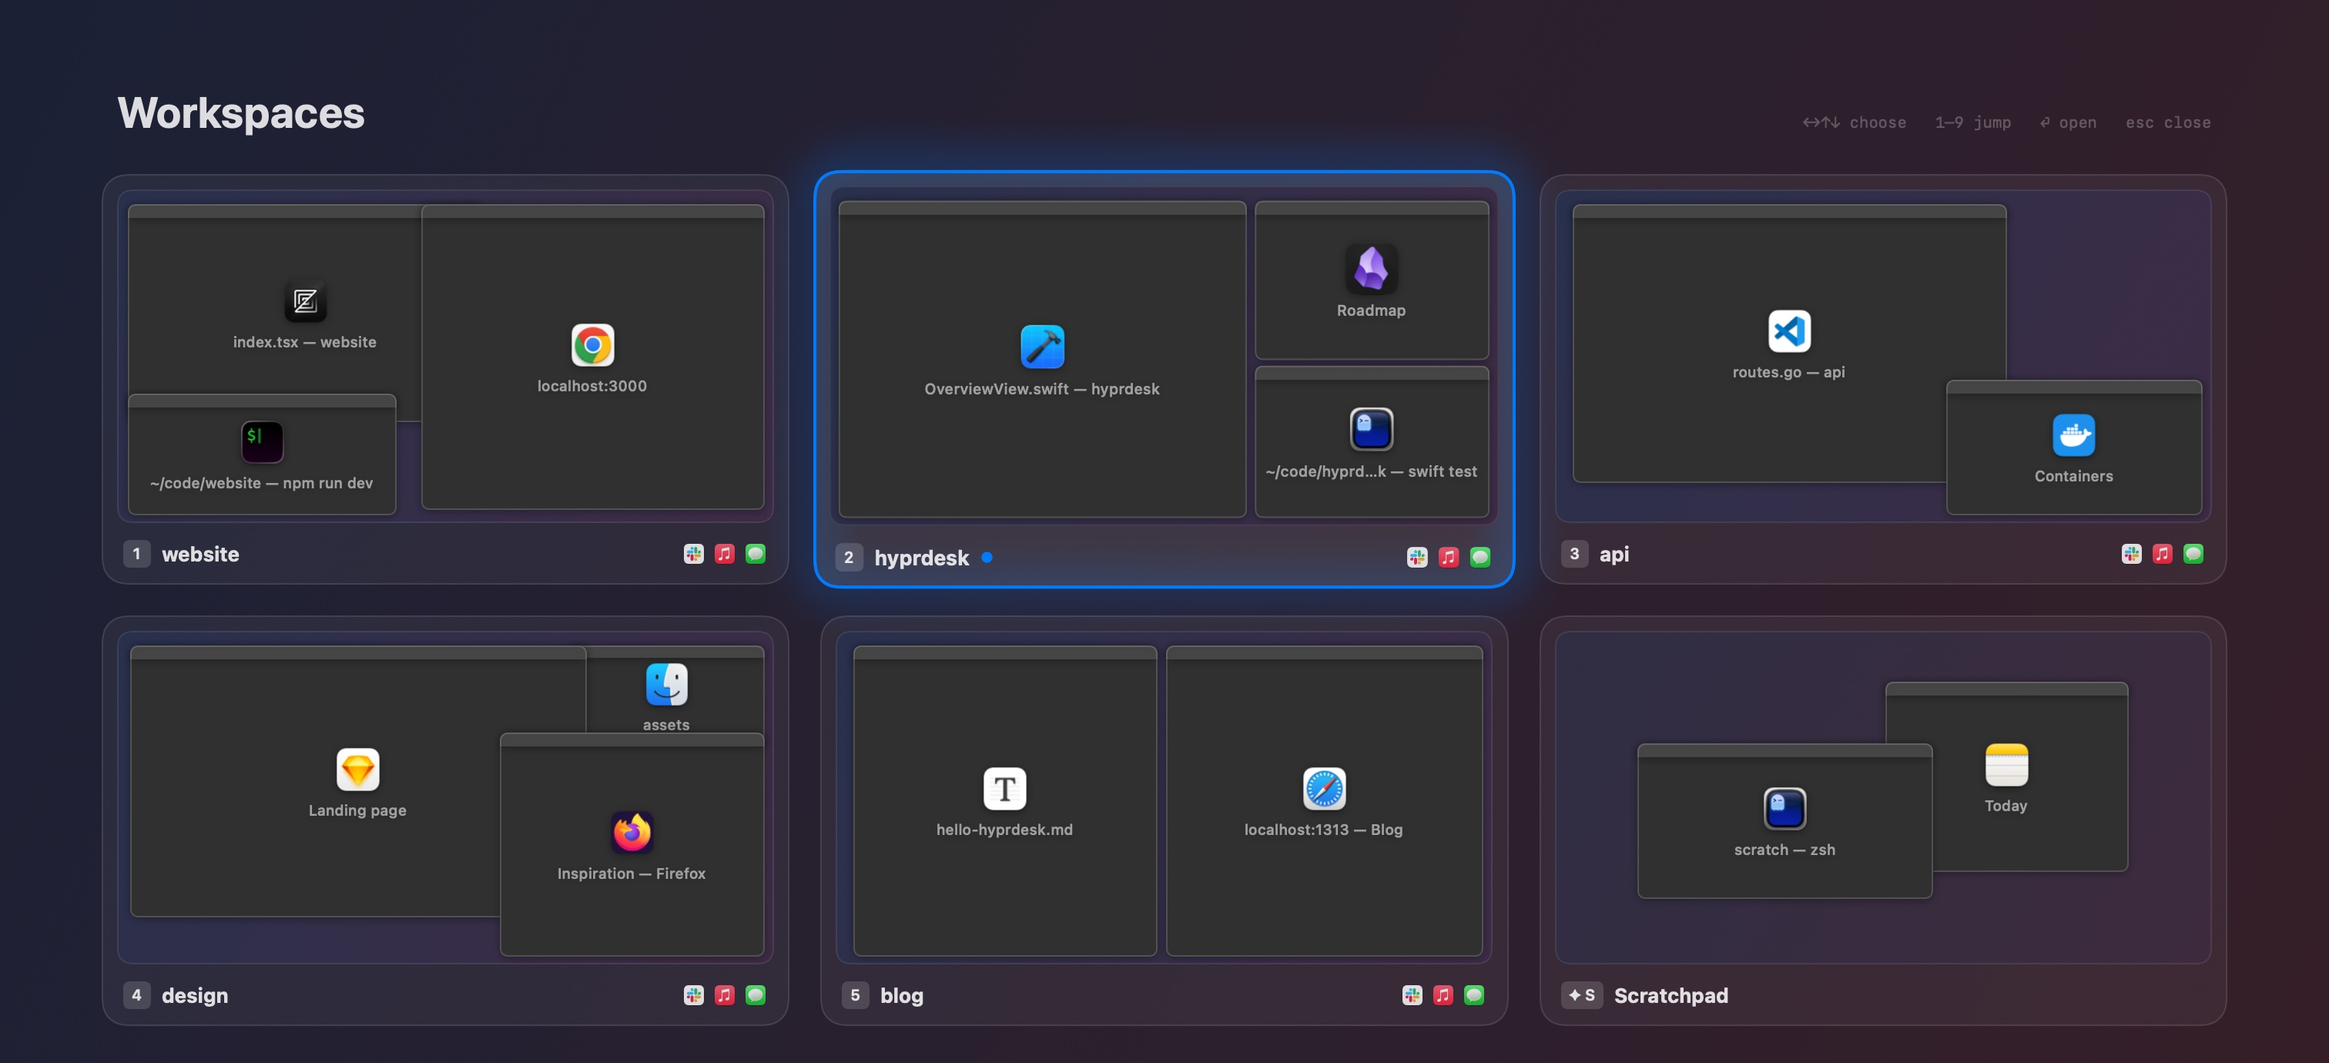
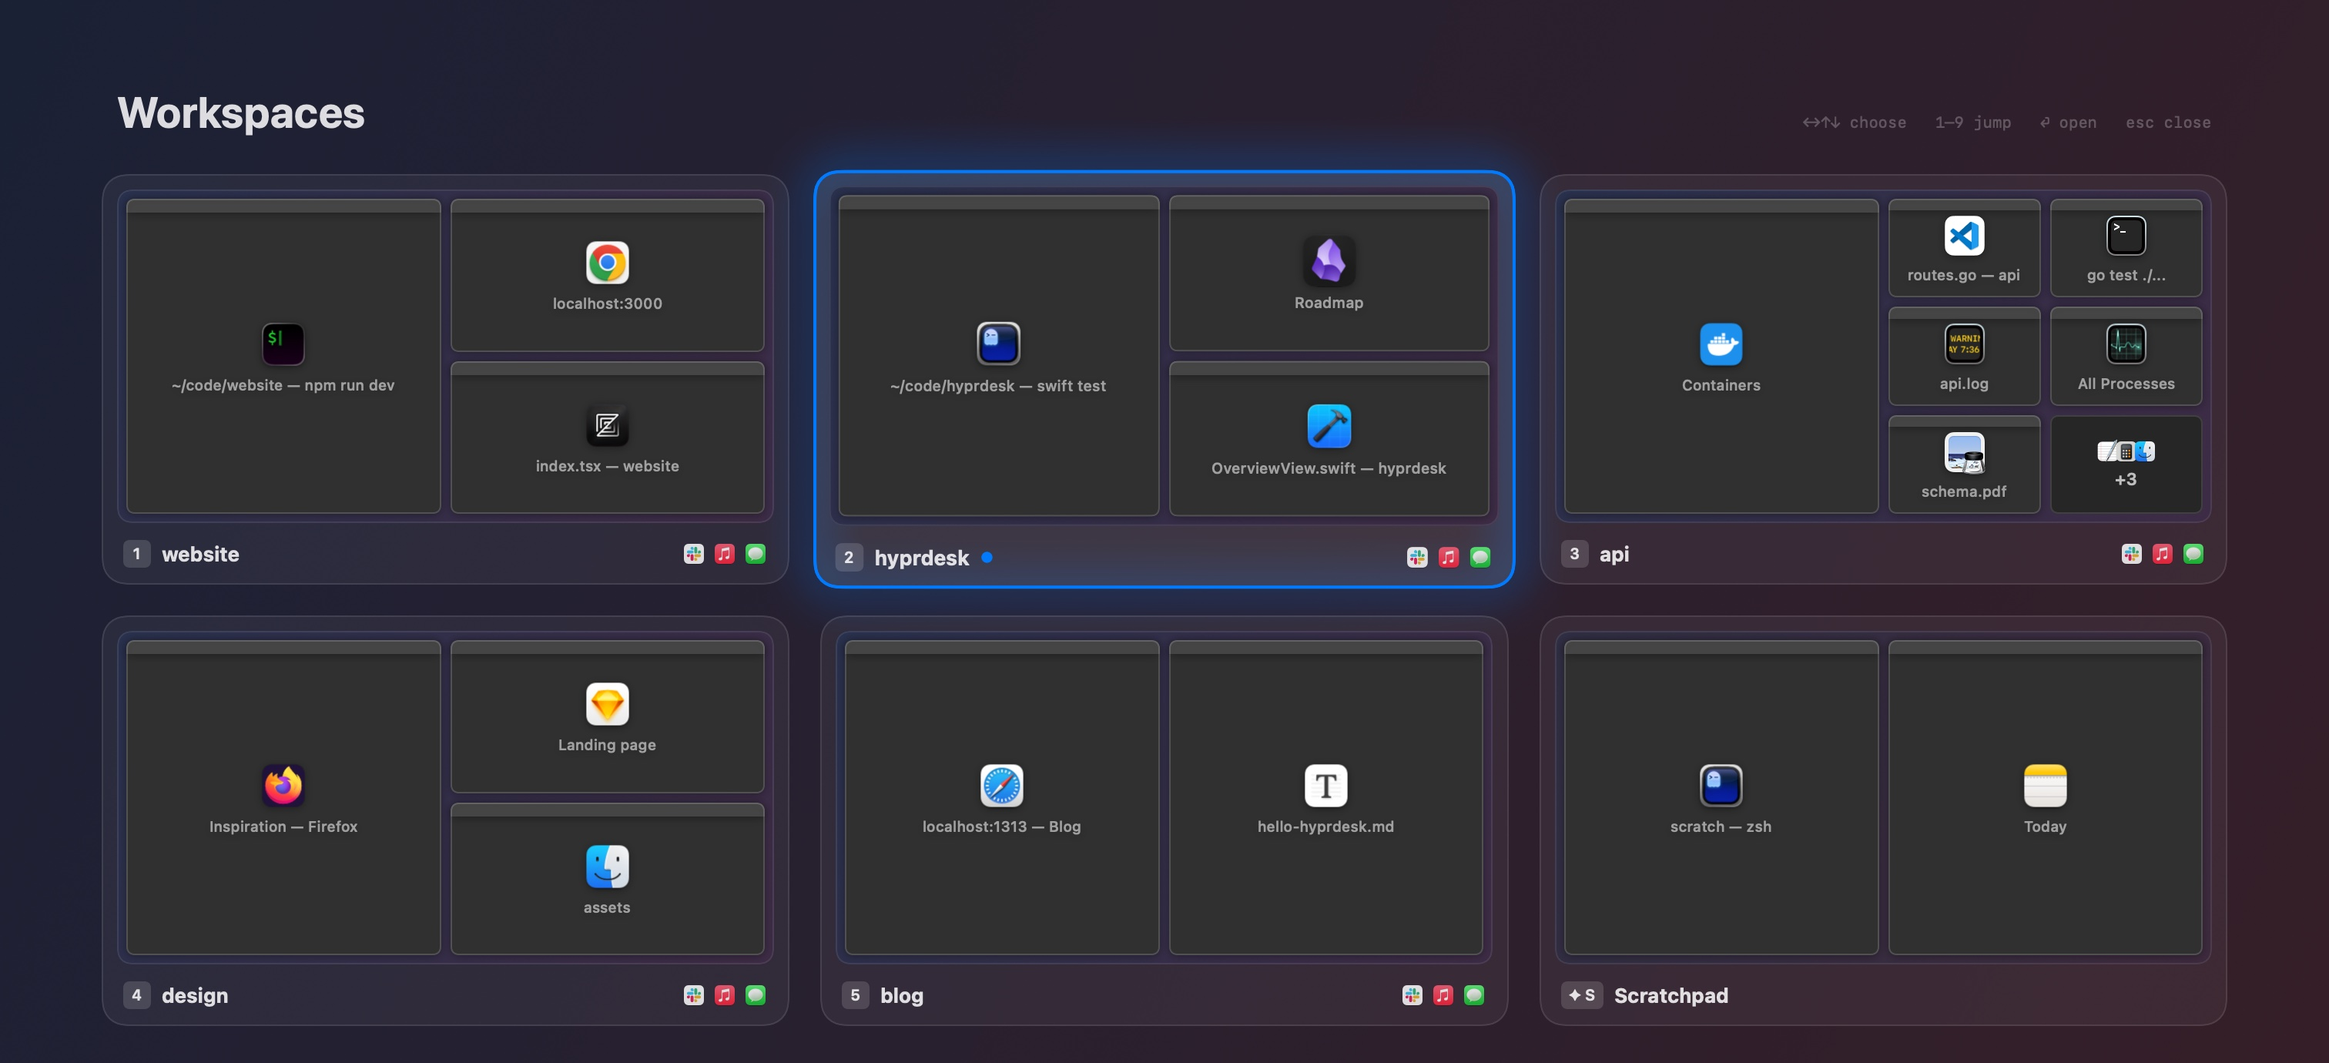
Overview: tile each card's windows, the frontmost largest (#3)
Cards drew windows where they really sit, back to front: with maximized or overlapping windows,
only the frontmost showed. Now every card tiles its windows the way a tiling window manager's
main-and-stack layout does: the frontmost takes the left half, the others share the right half,
stacked, in two columns past three. Past seven windows the last tile is "+N" with their apps'
icons. Every card fills its miniature the same way.

Real frames no longer matter to the overview, so it stops reading them when it opens
(OverviewModel's frames, WorkspaceEngine.homeFrames). The sample data gets a busy workspace;
README picture regenerated.

diff --git a/Sources/Overview/SpaceCard.swift b/Sources/Overview/SpaceCard.swift
@@ -62,18 +62,51 @@ public struct SpaceCard: Identifiable, Equatable {
     }
 }
 
-/// Where a window sits on a card's miniature desktop: each window is placed relative to the
-/// screen holding it (with several screens, they share the one miniature).
+/// Where a card's windows go on its miniature desktop: a main-and-stack layout, as tiling
+/// window managers have it. The frontmost window takes the left half; the others share the
+/// right half, one above another, in two columns once there are more than three of them. Real
+/// sizes and positions don't count: on macOS windows mostly overlap, and drawn where they
+/// really sit, the frontmost hides the rest. Every card fills its miniature the same way.
 public enum MiniDesktop {
-    /// `frame` (Accessibility coordinates) on a miniature `size` of its screen; clipped to the
-    /// miniature, nil when nothing of it is on a screen.
-    public static func frame(of frame: CGRect, screens: [CGRect], in size: CGSize) -> CGRect? {
-        guard let screen = ScreenGeometry.screen(for: frame, in: screens), screen.width > 0, screen.height > 0 else { return nil }
-        let sx = size.width / screen.width, sy = size.height / screen.height
-        let mini = CGRect(x: (frame.minX - screen.minX) * sx, y: (frame.minY - screen.minY) * sy,
-                          width: frame.width * sx, height: frame.height * sy)
-        let clipped = mini.intersection(CGRect(origin: .zero, size: size))
-        return clipped.isNull || clipped.width < 1 || clipped.height < 1 ? nil : clipped
+    public struct Tiles: Equatable, Sendable {
+        /// One per window shown, frontmost first: the first `frames.count` of the card's windows.
+        public var frames: [CGRect]
+        /// The last tile, for the windows that didn't get one, and how many those are.
+        public var overflow: (frame: CGRect, count: Int)?
+
+        public static func == (a: Tiles, b: Tiles) -> Bool {
+            a.frames == b.frames && a.overflow?.frame == b.overflow?.frame && a.overflow?.count == b.overflow?.count
+        }
+    }
+
+    /// Tiles for `count` windows over a miniature `size`; at most `maxTiles`, the last of them
+    /// "+N" when there are more windows than that.
+    public static func tiles(count: Int, in size: CGSize, inset: CGFloat = 6, spacing: CGFloat = 6, maxTiles: Int = 7) -> Tiles {
+        let bounds = CGRect(origin: .zero, size: size).insetBy(dx: inset, dy: inset)
+        guard count > 0, bounds.width > 0, bounds.height > 0 else { return Tiles(frames: []) }
+        if count == 1 { return Tiles(frames: [bounds]) }
+
+        let tiles = min(count, max(2, maxTiles))
+        let half = (bounds.width - spacing) / 2
+        let main = CGRect(x: bounds.minX, y: bounds.minY, width: half, height: bounds.height)
+        let stack = CGRect(x: main.maxX + spacing, y: bounds.minY, width: half, height: bounds.height)
+
+        // The stack: one column up to three, else two; a last tile alone in its row spans both.
+        let others = tiles - 1
+        let columns = others <= 3 ? 1 : 2
+        let rows = (others + columns - 1) / columns
+        let height = (stack.height - CGFloat(rows - 1) * spacing) / CGFloat(rows)
+        let width = (stack.width - CGFloat(columns - 1) * spacing) / CGFloat(columns)
+        var frames = [main]
+        for index in 0..<others {
+            let row = index / columns, column = index % columns
+            let alone = column == 0 && index == others - 1
+            frames.append(CGRect(x: stack.minX + CGFloat(column) * (width + spacing), y: stack.minY + CGFloat(row) * (height + spacing),
+                                 width: alone ? stack.width : width, height: height))
+        }
+        guard count > tiles else { return Tiles(frames: frames) }
+        let last = frames.removeLast()
+        return Tiles(frames: frames, overflow: (last, count - frames.count))
     }
 }
 

diff --git a/Sources/Overview/OverviewView.swift b/Sources/Overview/OverviewView.swift
@@ -98,9 +98,9 @@ public struct OverviewView: View {
     }
 }
 
-/// A workspace (or the scratchpad) as a miniature of its screen: its windows where they really
-/// sit, back to front, each with its app's icon; below, one row with its number and name. Every
-/// card is the same height.
+/// A workspace (or the scratchpad) as a miniature of its screen: its windows tiled over it,
+/// the frontmost the largest (`MiniDesktop.tiles`), each with its app's icon; below, one row
+/// with its number and name. Every card is the same height.
 private struct CardView: View {
     let card: SpaceCard
     let number: Int?
@@ -137,13 +137,18 @@ private struct CardView: View {
             .frame(maxWidth: .infinity)
             .overlay { GeometryReader { geometry in
             ZStack(alignment: .topLeading) {
-                ForEach(card.windows.filter { !$0.isMinimized }.reversed()) { window in
-                    if let mini = MiniDesktop.frame(of: model.frame(of: window), screens: model.screens, in: geometry.size) {
-                        MiniWindow(window: window, size: mini.size)
-                            .frame(width: mini.width, height: mini.height)
-                            .offset(x: mini.minX, y: mini.minY)
-                            .onTapGesture { model.onRaise(window) }
-                    }
+                let windows = card.windows.filter { !$0.isMinimized }
+                let tiles = MiniDesktop.tiles(count: windows.count, in: geometry.size)
+                ForEach(Array(zip(windows, tiles.frames)), id: \.0.id) { window, tile in
+                    MiniWindow(window: window, size: tile.size)
+                        .frame(width: tile.width, height: tile.height)
+                        .offset(x: tile.minX, y: tile.minY)
+                        .onTapGesture { model.onRaise(window) }
+                }
+                if let overflow = tiles.overflow {
+                    MoreWindows(windows: Array(windows.suffix(overflow.count)))
+                        .frame(width: overflow.frame.width, height: overflow.frame.height)
+                        .offset(x: overflow.frame.minX, y: overflow.frame.minY)
                 }
             }
             .frame(width: geometry.size.width, height: geometry.size.height, alignment: .topLeading)
@@ -237,6 +242,32 @@ private struct MiniWindow: View {
     /// Room for a line under the icon, and a title that says more than the app's name.
     private var showsTitle: Bool {
         size.width >= 64 && size.height >= icon + 30 && !window.title.isEmpty && window.title != window.appName
+    }
+}
+
+/// The last tile when a card has more windows than tiles: "+N" over their apps' icons.
+private struct MoreWindows: View {
+    let windows: [WindowInfo]
+
+    var body: some View {
+        let pane = RoundedRectangle(cornerRadius: 5, style: .continuous)
+        pane.fill(Color(white: 0.15))
+            .overlay(pane.strokeBorder(.white.opacity(0.12), lineWidth: 1))
+            .overlay {
+                VStack(spacing: 3) {
+                    HStack(spacing: -4) {
+                        ForEach(apps.prefix(3)) { AppIcon(window: $0).frame(width: 16, height: 16) }
+                    }
+                    Text("+\(windows.count)").font(.system(size: 11, weight: .semibold)).foregroundStyle(.white.opacity(0.7))
+                }
+            }
+            .help(windows.map { $0.title.isEmpty ? $0.appName : "\($0.appName) — \($0.title)" }.joined(separator: "\n"))
+    }
+
+    /// One window per app, in order.
+    private var apps: [WindowInfo] {
+        var seen = Set<String>()
+        return windows.filter { seen.insert($0.appKey).inserted }
     }
 }
 

diff --git a/Tests/OverviewTests/SpaceCardTests.swift b/Tests/OverviewTests/SpaceCardTests.swift
@@ -53,17 +53,36 @@ import WindowKit
         #expect(cards.map(\.name) == ["a"])
     }
 
-    @Test func miniaturesPlaceWindowsOnTheirOwnScreen() {
-        let main = CGRect(x: 0, y: 0, width: 1000, height: 500), right = CGRect(x: 1000, y: 0, width: 800, height: 400)
-        let size = CGSize(width: 200, height: 100)
-        // Left half of the main screen.
-        #expect(MiniDesktop.frame(of: CGRect(x: 0, y: 0, width: 500, height: 500), screens: [main, right], in: size)
-                == CGRect(x: 0, y: 0, width: 100, height: 100))
-        // The right half of the other screen lands on the right half of the miniature.
-        #expect(MiniDesktop.frame(of: CGRect(x: 1400, y: 0, width: 400, height: 400), screens: [main, right], in: size)
-                == CGRect(x: 100, y: 0, width: 100, height: 100))
-        // Hanging off the edge: clipped.
-        #expect(MiniDesktop.frame(of: CGRect(x: 900, y: 0, width: 200, height: 100), screens: [main], in: size)?.maxX == 200)
+    @Test func theFrontmostWindowTakesTheLeftHalf() {
+        let size = CGSize(width: 212, height: 112), bounds = CGRect(x: 6, y: 6, width: 200, height: 100)
+        #expect(MiniDesktop.tiles(count: 0, in: size).frames.isEmpty)
+        #expect(MiniDesktop.tiles(count: 1, in: size).frames == [bounds])
+        // Three: the rest stacked on the right.
+        #expect(MiniDesktop.tiles(count: 3, in: size).frames == [
+            CGRect(x: 6, y: 6, width: 97, height: 100),
+            CGRect(x: 109, y: 6, width: 97, height: 47), CGRect(x: 109, y: 59, width: 97, height: 47),
+        ])
+        // Five: two columns on the right, two rows.
+        let five = MiniDesktop.tiles(count: 5, in: size).frames
+        #expect(five.count == 5 && five[1...].allSatisfy { $0.width == 45.5 && $0.height == 47 })
+        // Six: the last of the stack alone in its row, across both columns.
+        #expect(MiniDesktop.tiles(count: 6, in: size).frames.last?.width == 97)
+    }
+
+    @Test func windowsBeyondTheTilesShareTheLastOne() {
+        let size = CGSize(width: 212, height: 112)
+        let seven = MiniDesktop.tiles(count: 7, in: size)
+        #expect(seven.frames.count == 7 && seven.overflow == nil)
+        // Ten: six windows, and "+4" where the seventh would be.
+        let ten = MiniDesktop.tiles(count: 10, in: size)
+        #expect(ten.frames == Array(seven.frames.prefix(6)))
+        #expect(ten.overflow?.frame == seven.frames[6] && ten.overflow?.count == 4)
+        // No tile overlaps another, and all stay on the miniature.
+        let all = seven.frames
+        for (i, tile) in all.enumerated() {
+            #expect(CGRect(origin: .zero, size: size).contains(tile))
+            for other in all[(i + 1)...] { #expect(!tile.intersects(other)) }
+        }
     }
 
     @Test func appsByWindowCountThenName() {

diff --git a/Sources/Overview/OverviewModel.swift b/Sources/Overview/OverviewModel.swift
@@ -10,10 +10,6 @@ import WindowKit
 public final class OverviewModel {
     private let live: (spaces: SpaceStore, inventory: WindowInventory)?
     private let sample: (cards: [SpaceCard], now: Date)
-    /// Where every window belongs on screen (parked ones included), asked when the overview opens.
-    @ObservationIgnored private let readFrames: () -> [CGWindowID: CGRect]
-    /// The miniatures' frames, read in `reset()`: windows don't move while it's up.
-    private var frames: [CGWindowID: CGRect] = [:]
     /// The screens (Accessibility coordinates) the miniatures stand for; the first sets their shape.
     public private(set) var screens: [CGRect]
 
@@ -25,25 +21,18 @@ public final class OverviewModel {
     @ObservationIgnored public var onRaise: (WindowInfo) -> Void = { _ in }
     @ObservationIgnored public var onDismiss: () -> Void = {}
 
-    /// `frames`: where every window really is, asked of the apps (the engine also knows where
-    /// parked ones belong).
-    public init(spaces: SpaceStore, inventory: WindowInventory, frames: @escaping () -> [CGWindowID: CGRect]) {
+    public init(spaces: SpaceStore, inventory: WindowInventory) {
         live = (spaces, inventory)
         sample = ([], .now)
-        readFrames = frames
         screens = []
     }
 
-    /// Fixed cards, for snapshots: windows where their `frame` says, on `screens`.
+    /// Fixed cards, for snapshots, on `screens`.
     public init(cards: [SpaceCard], now: Date, screens: [CGRect] = [CGRect(x: 0, y: 0, width: 1512, height: 982)]) {
         live = nil
         sample = (cards, now)
-        readFrames = { Dictionary(cards.flatMap(\.windows).map { ($0.id, $0.frame) }, uniquingKeysWith: { first, _ in first }) }
         self.screens = screens
-        frames = readFrames()
     }
-
-    public func frame(of window: WindowInfo) -> CGRect { frames[window.id] ?? window.frame }
 
     /// Width over height of the miniatures: the main screen's.
     public var aspect: CGFloat {
@@ -68,10 +57,7 @@ public final class OverviewModel {
 
     public func reset() {
         order = WindowOrder.current()
-        if live != nil {
-            screens = ScreenGeometry.screens()
-            frames = readFrames()
-        }
+        if live != nil { screens = ScreenGeometry.screens() }
         selection = cards.firstIndex(where: \.isActive) ?? 0
     }
 

diff --git a/Sources/Overview/OverviewSnapshot.swift b/Sources/Overview/OverviewSnapshot.swift
@@ -68,6 +68,14 @@ public enum OverviewSnapshot {
             SpaceCard(space: Space(name: "api"), windows: [
                 window(10, "com.docker.docker", "Docker", "Containers", 900, 560, 590, 400),
                 window(9, code.0, code.1, "routes.go — api", 40, 44, 1000, 820),
+                // A busy one: more windows than tiles.
+                window(20, "com.apple.Terminal", "Terminal", "go test ./...", 300, 300, 700, 420),
+                window(21, "com.apple.Console", "Console", "api.log", 500, 200, 800, 600),
+                window(22, "com.apple.ActivityMonitor", "Activity Monitor", "All Processes", 600, 100, 700, 500),
+                window(23, "com.apple.Preview", "Preview", "schema.pdf", 200, 150, 600, 700),
+                window(24, "com.apple.TextEdit", "TextEdit", "notes.txt", 100, 400, 500, 400),
+                window(25, "com.apple.calculator", "Calculator", "Calculator", 1200, 600, 230, 400),
+                window(26, "com.apple.finder", "Finder", "api", 800, 500, 600, 400),
             ], isActive: false),
             SpaceCard(space: Space(name: "design"), windows: [
                 window(5, firefox.0, firefox.1, "Inspiration — Firefox", 880, 300, 610, 660),

diff --git a/Sources/Workspaces/WorkspaceEngine.swift b/Sources/Workspaces/WorkspaceEngine.swift
@@ -488,18 +488,6 @@ public final class WorkspaceEngine {
     /// Whether the window is parked right now.
     public func isParked(_ window: WindowInfo) -> Bool { parked[window.id] != nil }
 
-    /// Where every window really belongs (Accessibility coordinates), asked of the apps right now:
-    /// its spot on screen, or, while it's parked out of sight, the spot it came from. Listings
-    /// carry frames too, but only as fresh as the last relist (moves and resizes send nothing).
-    public func homeFrames() -> [CGWindowID: CGRect] {
-        let windows = inventory.windows
-        let live = inventory.frames(of: windows.filter { parked[$0.id] == nil && !$0.isMinimized })
-        var frames = Dictionary(windows.map { ($0.id, $0.frame) }, uniquingKeysWith: { first, _ in first })
-        frames.merge(live) { _, now in now }
-        frames.merge(parked) { _, home in home }
-        return frames
-    }
-
     // MARK: Events
 
     private func windowsChanged(_ windows: [WindowInfo]) {

diff --git a/Sources/HyprDesk/AppDelegate.swift b/Sources/HyprDesk/AppDelegate.swift
@@ -393,9 +393,7 @@ final class AppDelegate: NSObject, NSApplicationDelegate, NSMenuDelegate {
     /// Opening a card switches to its workspace (or brings up the scratchpad); a window in a
     /// card's miniature is focused, switching along.
     private func makeOverviewModel() -> OverviewModel {
-        let model = OverviewModel(spaces: spaces, inventory: inventory) { [weak self] in
-            self?.engine.homeFrames() ?? [:]
-        }
+        let model = OverviewModel(spaces: spaces, inventory: inventory)
         model.onActivate = { [weak self] card in
             guard let self else { return }
             overview.dismiss(restoringFocus: false)

diff --git a/Package.swift b/Package.swift
@@ -29,7 +29,7 @@ let package = Package(
         .target(name: "Control"),
         // The space's Mission Control: pictures of its windows.
         .target(name: "Expose", dependencies: ["WindowKit"]),
-        // The overview: every space as a miniature of its screen, with its windows.
+        // The overview: every space as a card, its windows tiled, the frontmost largest.
         .target(name: "Overview", dependencies: ["Spaces", "WindowKit"]),
 
         .testTarget(name: "SpacesTests", dependencies: ["Spaces", "WindowKit"]),

diff --git a/README.md b/README.md
@@ -24,7 +24,7 @@
 </p>
 
 <p align="center">
-  <img src="docs/overview.jpg" alt="The overview (⌃↑): every workspace as a miniature of its screen, the current one highlighted">
+  <img src="docs/overview.jpg" alt="The overview (⌃↑): every workspace as a card with its windows tiled, the frontmost largest, the current one highlighted">
 </p>
 
 ## Why
@@ -70,7 +70,7 @@ make install-cli    # optional: the `hyprdesk` command, in ~/.local/bin
 | ✦ S | Show or hide the scratchpad |
 | ✦ ⇧ S | Move the focused window into the scratchpad, or back out |
 | ⌃← ⌃→ | Previous / next workspace, in place of macOS's desktops |
-| ⌃↑ | The overview: every workspace as a miniature of its screen |
+| ⌃↑ | The overview: every workspace as a card, its windows tiled, the frontmost largest |
 | ⌃↓ | The workspace's Mission Control: pictures of its windows |
 | ⌘Tab | The workspace's windows, most recent first |
 
@@ -162,7 +162,7 @@ Builds are signed with the "Local App Signing" certificate from `make signing-ce
 | `WindowKit` | Every standard window via Accessibility: listing, observing, moving, focusing; screen geometry. No workspaces. |
 | `Spaces` | Workspaces and which one each window belongs to (sticky apps, the scratchpad), saved to disk. No AppKit. |
 | `Workspaces` | The engine: parks and restores windows, switches, follows focus, recovers after a crash. |
-| `Overview` | ⌃↑: the cards and their miniatures, keyboard navigation, snapshots. |
+| `Overview` | ⌃↑: the cards and their tiled windows, keyboard navigation, snapshots. |
 | `Expose` | ⌃↓: the workspace's Mission Control, its layout and thumbnails. |
 | `Switcher` | ⌘Tab: the switcher's model and HUD. |
 | `Search` | ✦ Space: ranking windows by title, app and workspace. |
